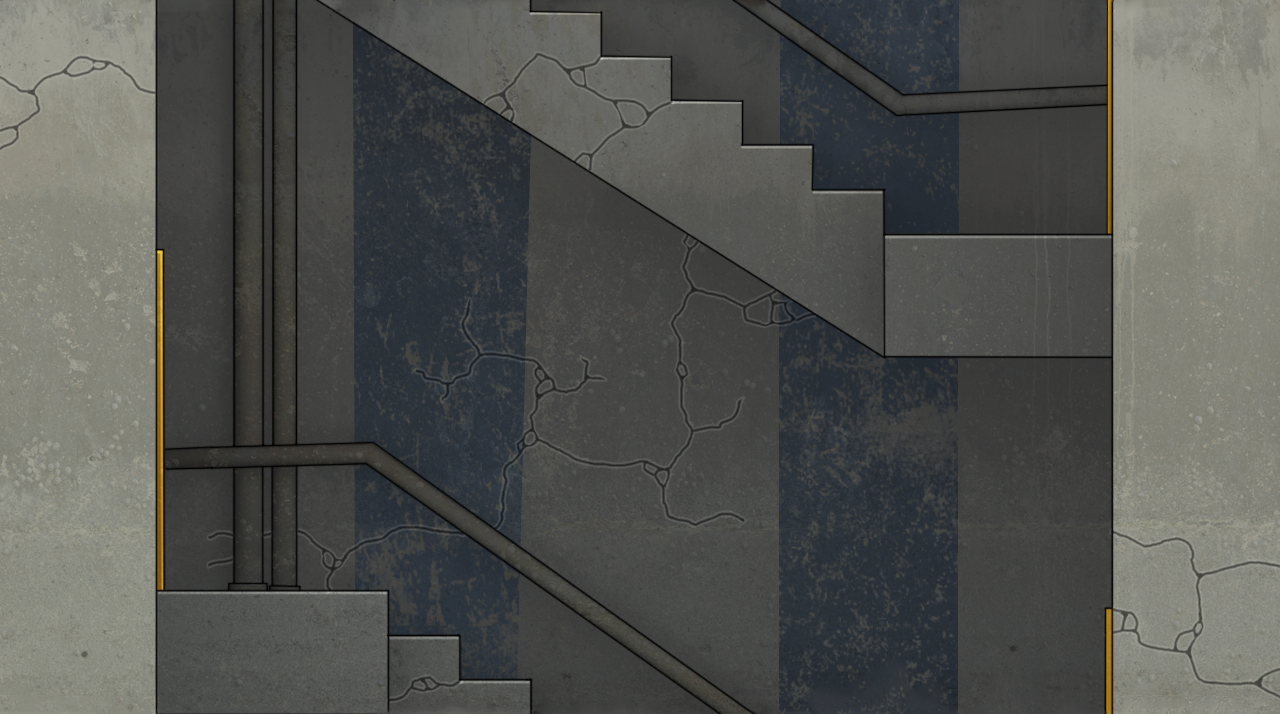
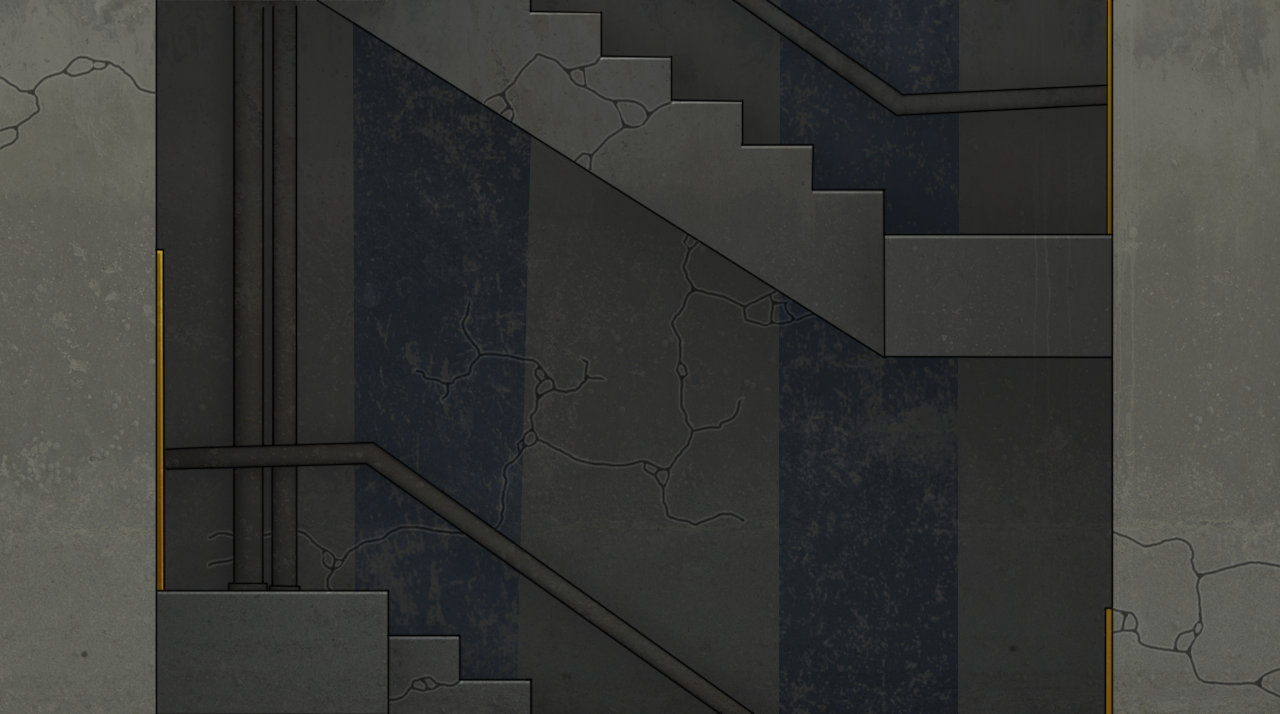
basic ambient lighting

diff --git a/Assets/Code/Controls/Room.cs b/Assets/Code/Controls/Room.cs
@@ -31,6 +31,12 @@ public class Room : MonoBehaviour {
   public float navRadius = 0.0f;
   public float lookAhead = 0.5f;
   
+  // Ambient light color
+  public Color ambientLight = new Color( 228f, 228f, 228f, 255f );
+  
+  // TODO color bounds
+  public colorBoundary[] colorBounds;
+  
   void Start() {
     SetUp();
   }
@@ -74,6 +80,21 @@ public class Room : MonoBehaviour {
     else 
       return closest.orderBelow;
   }
+}
+
+[System.Serializable]
+public class colorBoundary {
+  public string name;
+  
+  public enum BoundType{ GreaterThan, LessThan };
+  public BoundType boundType = BoundType.GreaterThan;
+  
+  public enum BoundAxis{ X, Y };
+  public BoundAxis boundAxis = BoundAxis.X;
+  
+  public float boundValue;
+  
+  public Color ambientColor;
 }
 
 

diff --git a/Assets/Code/Camera/CameraControl.cs b/Assets/Code/Camera/CameraControl.cs
@@ -50,6 +50,9 @@ public class CameraControl : MonoBehaviour {
       Game.player.transform.localScale = new Vector3( ( Game.player.transform.localScale.x < 0 ? -cScale : cScale ), cScale, cScale );
     }
     
+    // Change ambient light
+    RenderSettings.ambientLight = curRoom.ambientLight;
+    
   }
 	
 	// Update is called once per frame
